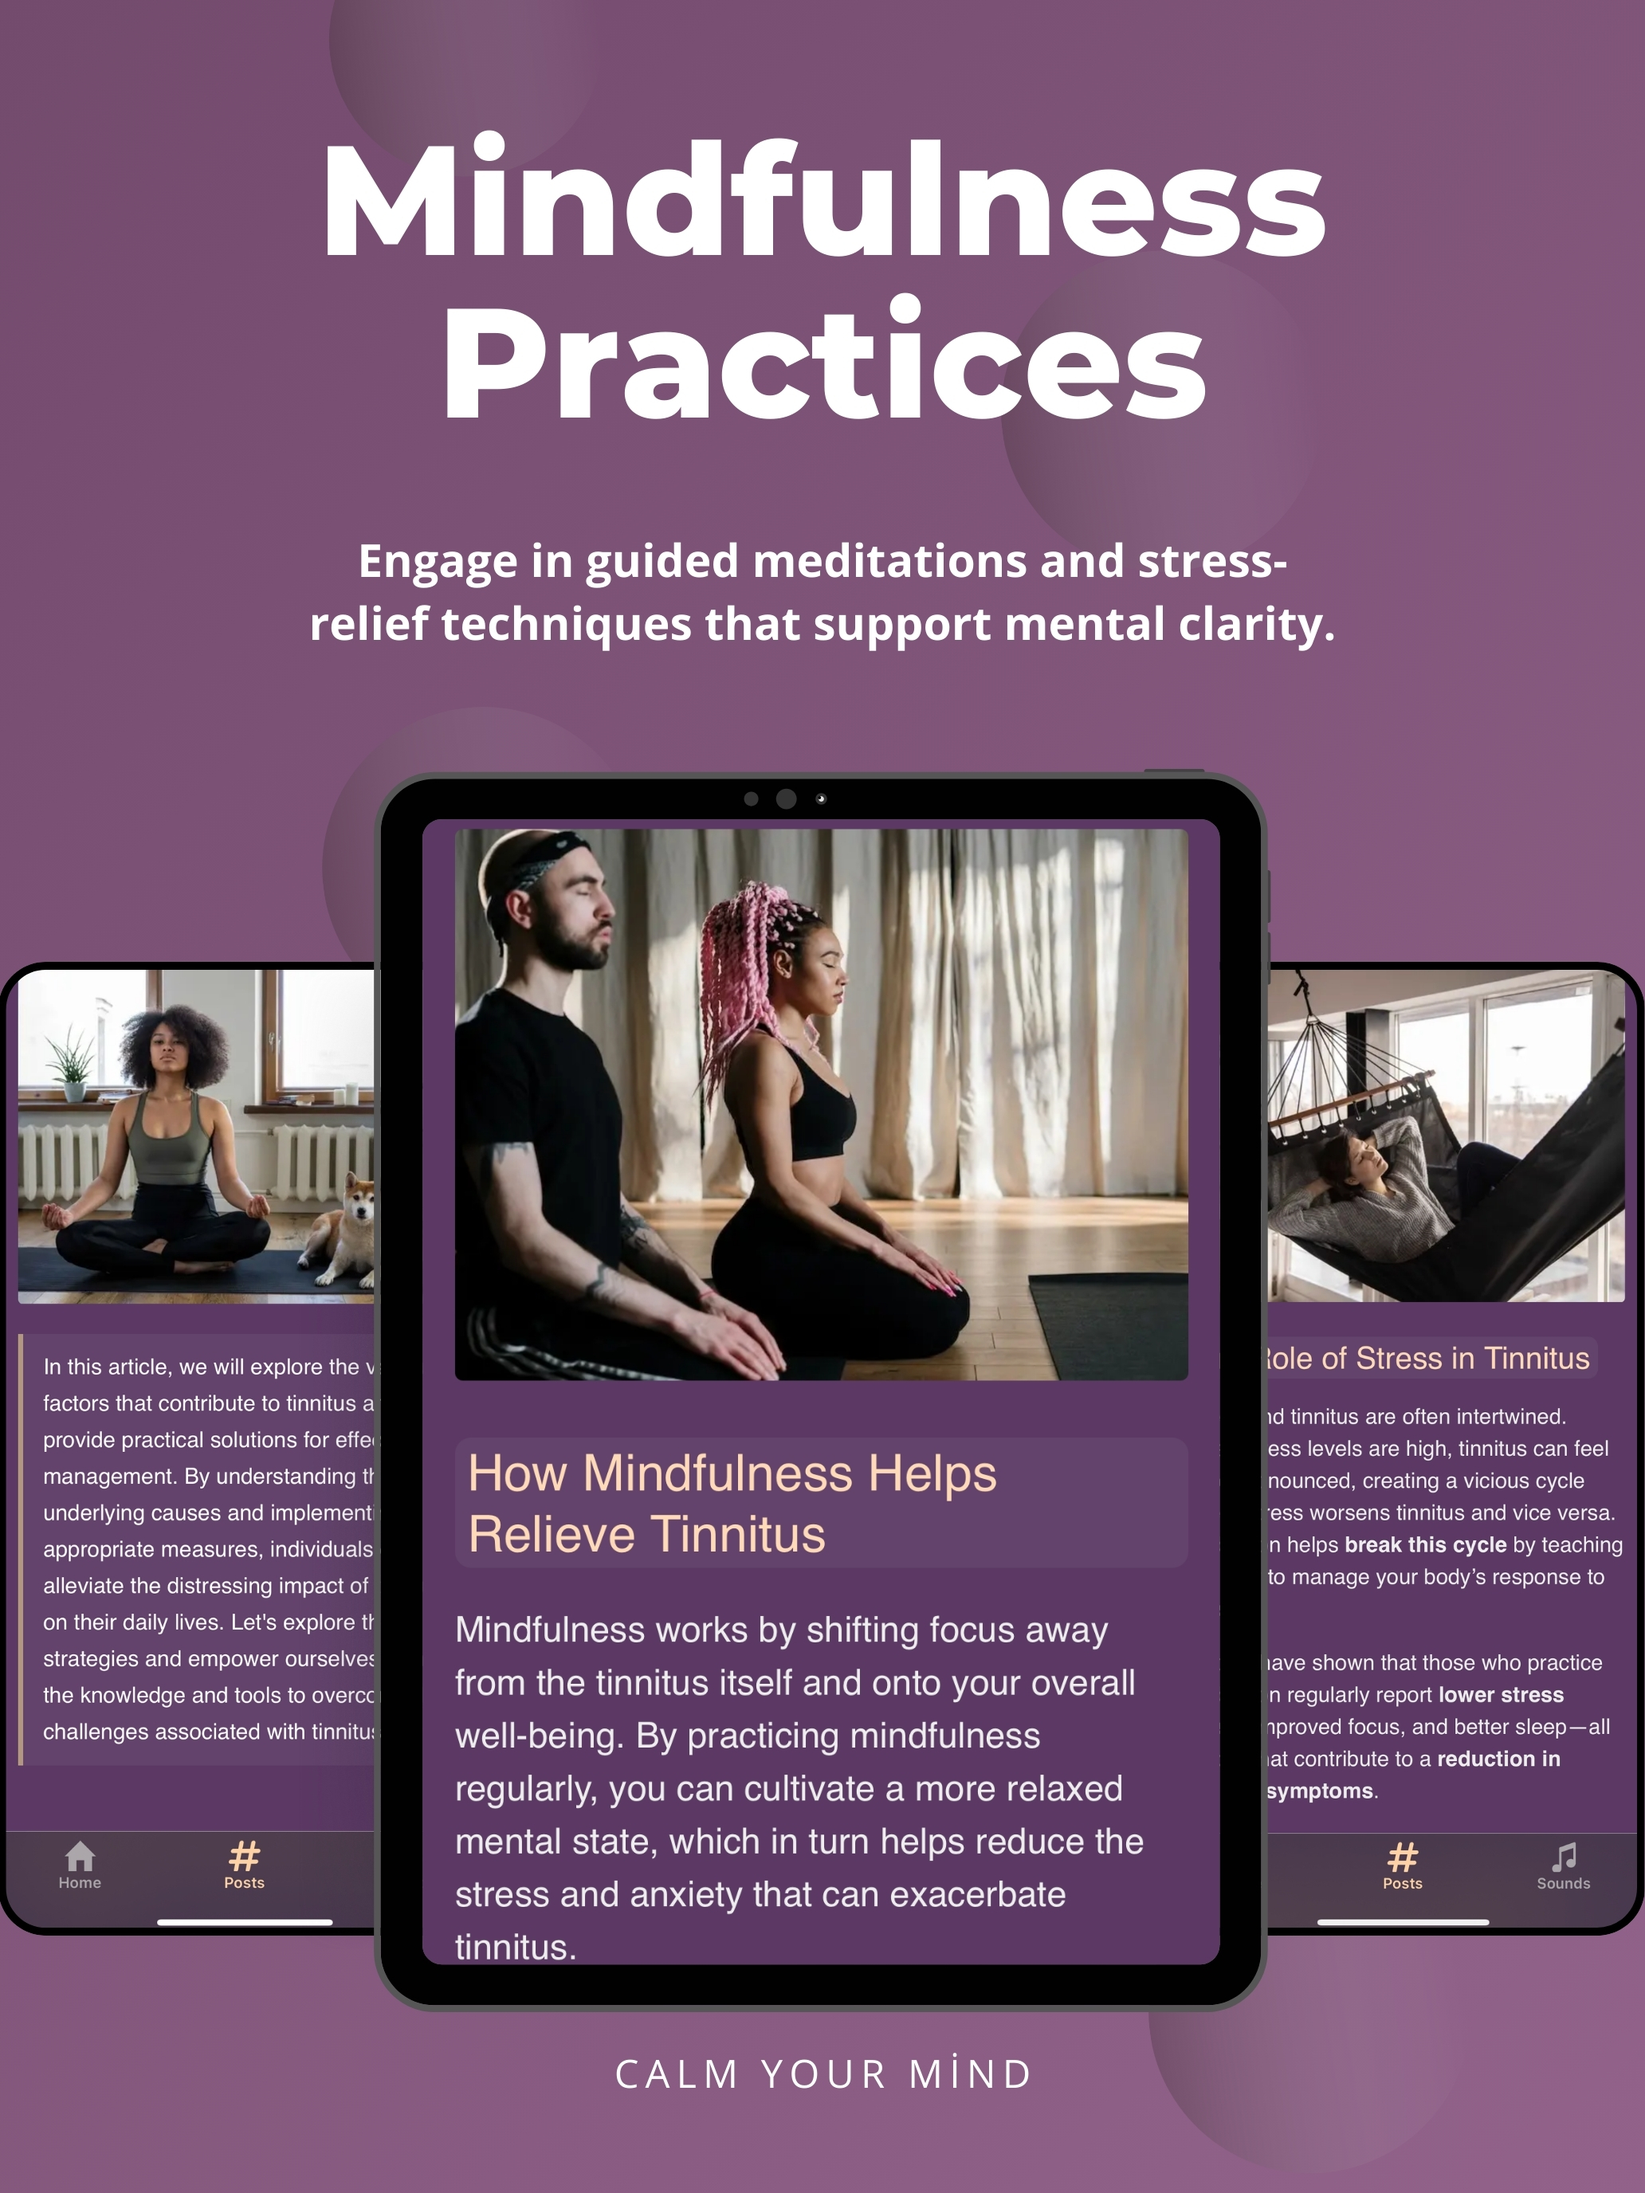
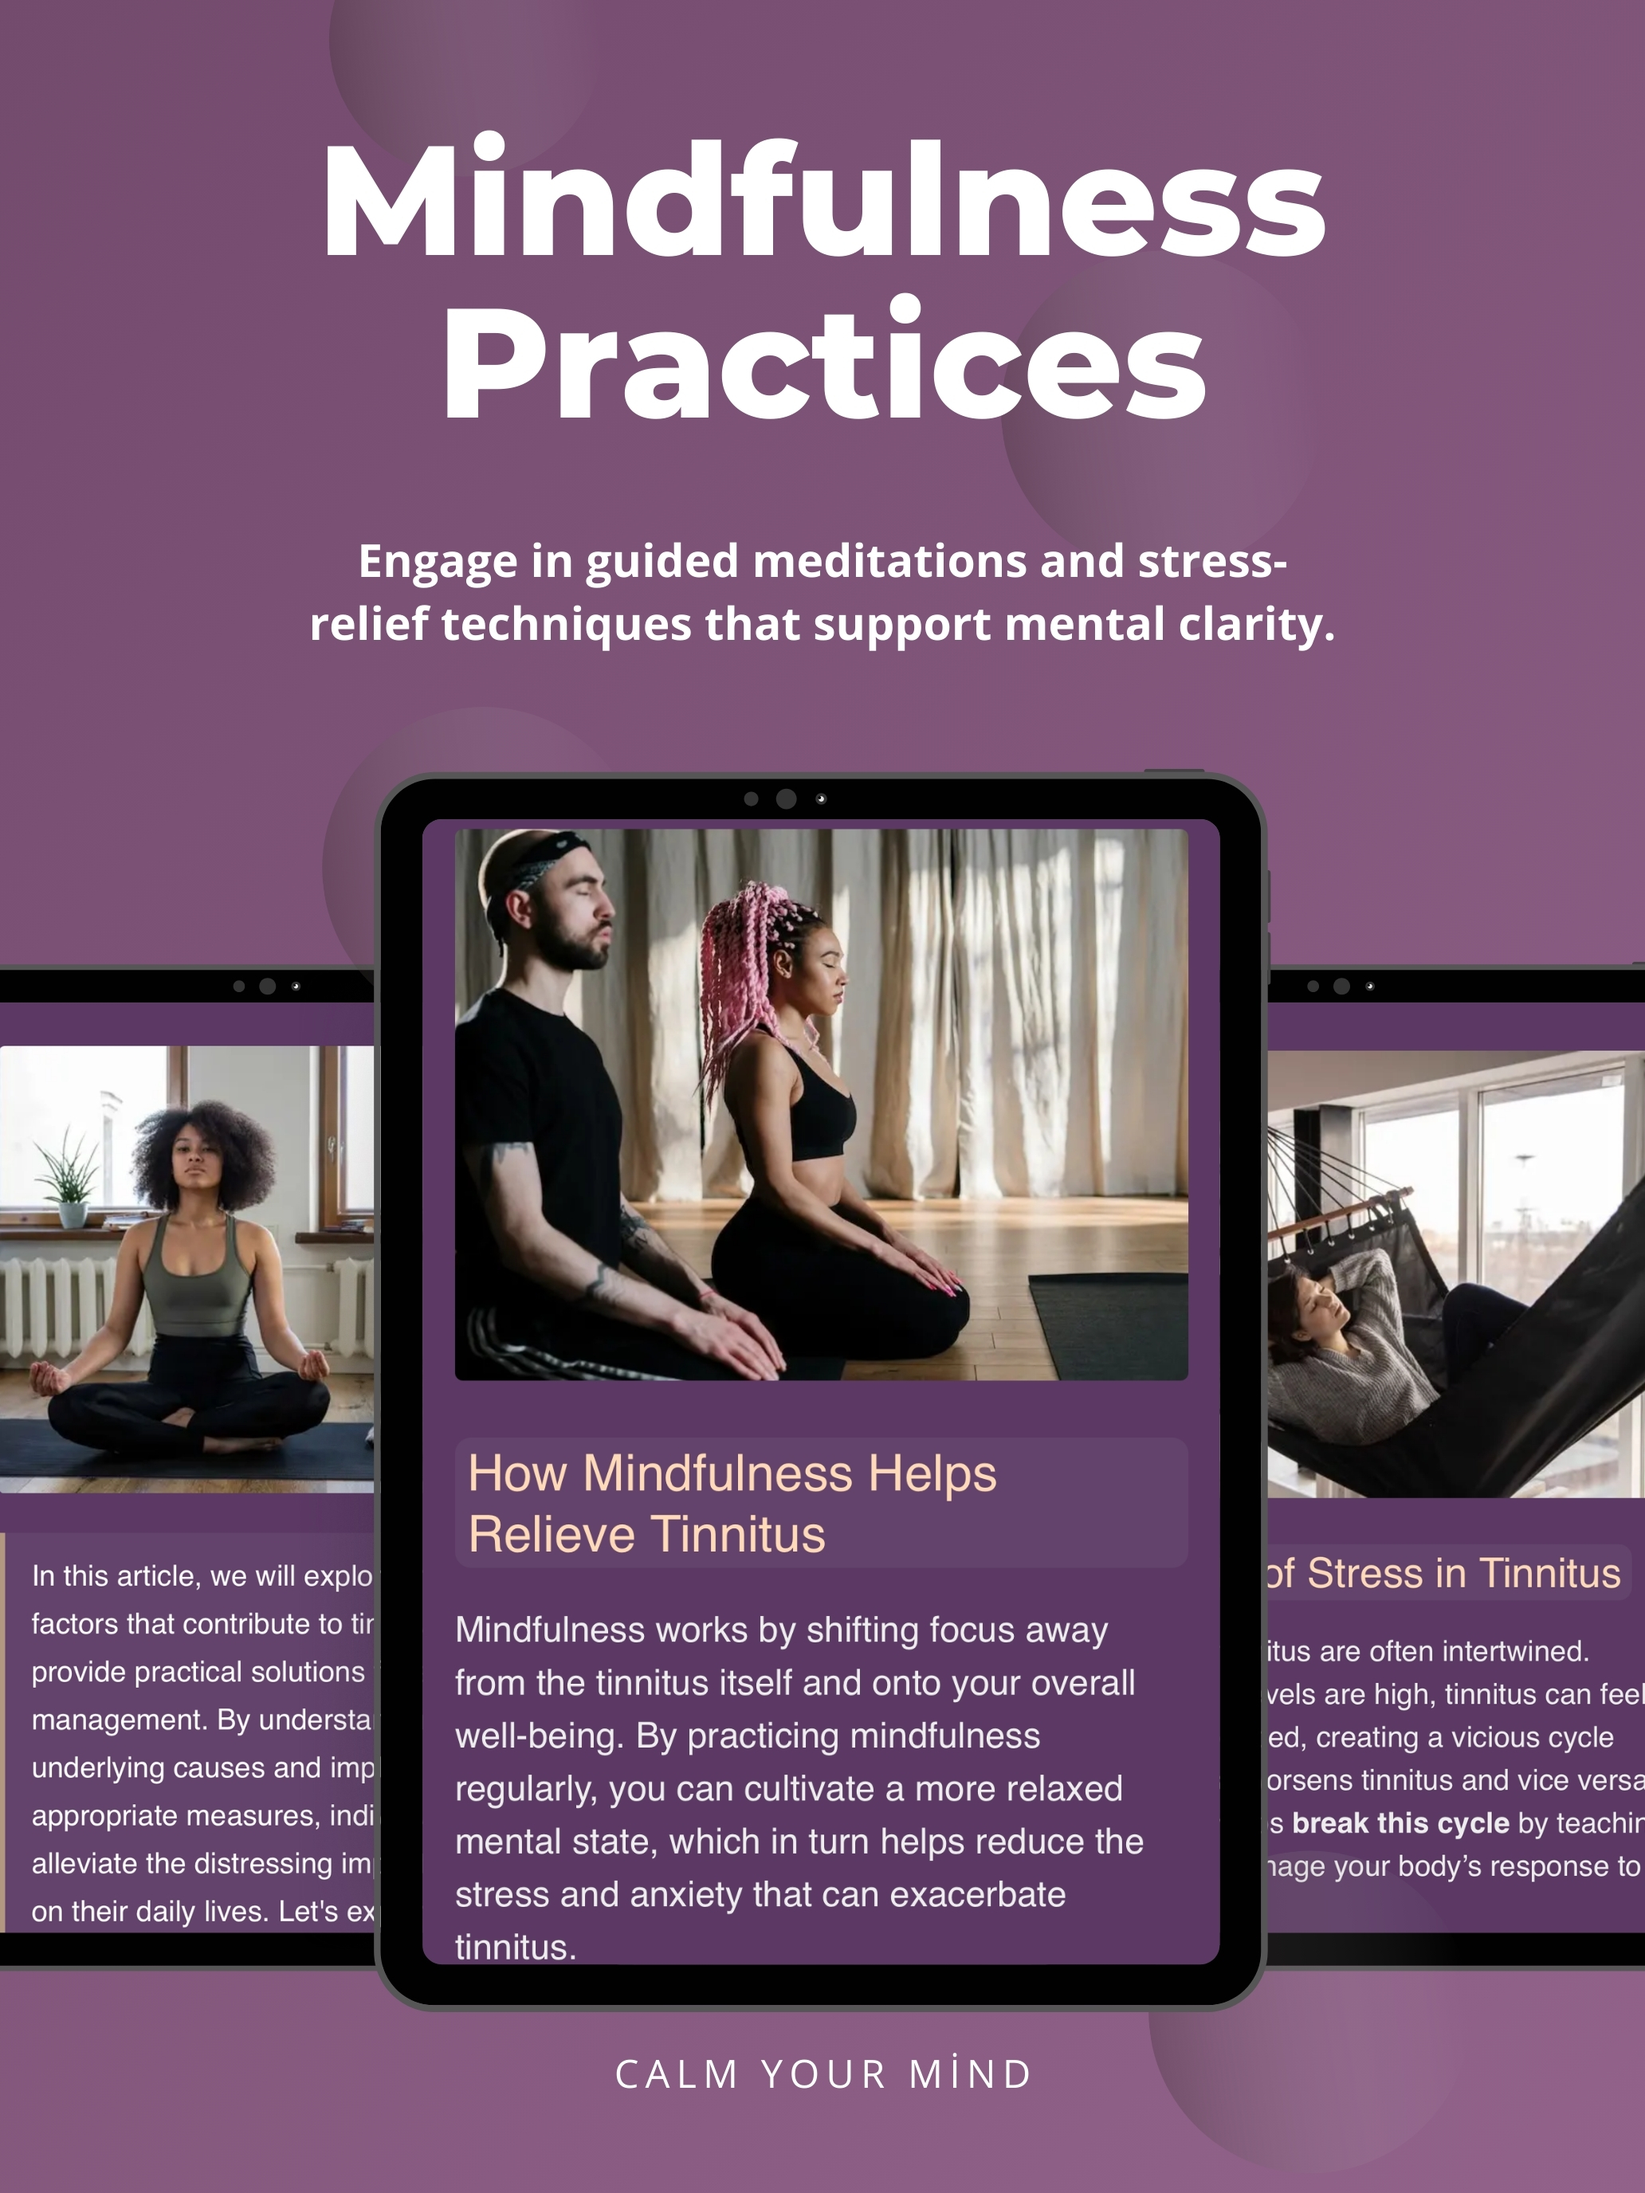
fixedandroid layout issues

Changed region(s): [[0.7442, 0.4375, 1.0, 0.9062], [0.0, 0.4375, 0.2481, 0.9062]]

diff --git a/app/(tabs)/index.tsx b/app/(tabs)/index.tsx
@@ -55,5 +55,6 @@ const styles = StyleSheet.create({
   webview: {
     flex: 1,
     backgroundColor: Colors.background,
+    marginBottom: Platform.OS === "android" ? -70 : 0,
   },
 });

diff --git a/app/(tabs)/posts.tsx b/app/(tabs)/posts.tsx
@@ -55,5 +55,6 @@ const styles = StyleSheet.create({
   webview: {
     flex: 1,
     backgroundColor: Colors.background,
+    marginBottom: Platform.OS === "android" ? -70 : 0,
   },
 });

diff --git a/app/(tabs)/sounds.tsx b/app/(tabs)/sounds.tsx
@@ -55,5 +55,6 @@ const styles = StyleSheet.create({
   webview: {
     flex: 1,
     backgroundColor: Colors.background,
+    marginBottom: Platform.OS === "android" ? -70 : 0,
   },
 });
